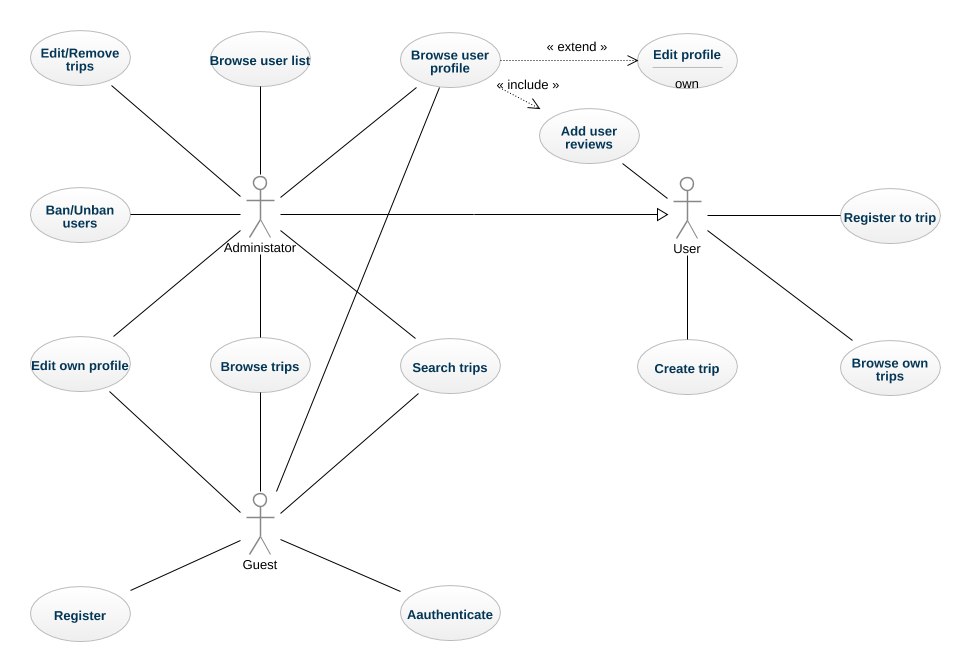
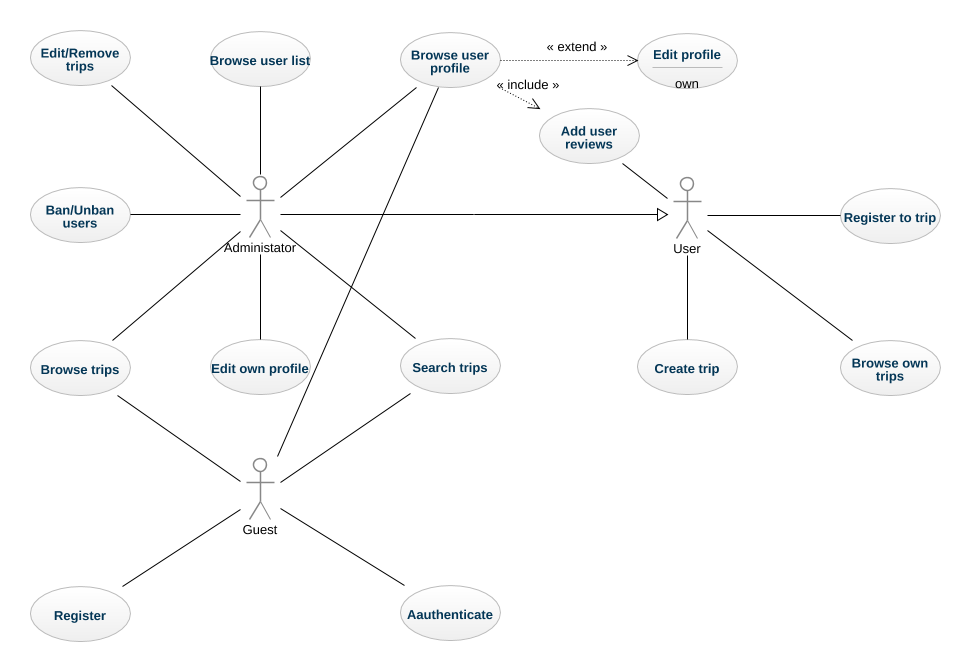
added subject field

diff --git a/hitcher/README.md b/hitcher/README.md
@@ -43,6 +43,15 @@ Final Task. Web Project
 - Регистрация пользователя и/или добавление артефакта предметной области системы.
 - Просмотр информации (например: просмотр всех ставок тотализатора, статистики заказов, счетов и т.д.)
 - Удаление информации (например: отмена заказа, удаление сущности и т.д.)
+- Добавление и модификация информации (например: создать и отредактировать товар, создать и отредактировать заказ и т.д.)
+
+Предметная область:
+===================
+
+Система **Hitcher** (Попутчик). Предназначена для поиска подходящего транспортного средства для поездки в указанное место назначения в определенное время. Система предлагает способ разделить стоимость поездки между другими людьми, которые будут учавствовать в данном путешествии.
+- [ ] **Гость** может просматривать список существующих поездок, просматривать выбранную, просматривать **Пользователей**, которые учавствуют в поездке, зарегистрироваться или авторизироваться в системе. 
+- [ ] Роль **Пользователя** включает в себя возможности роли **Гостя**, а также возможности создания, изменения и удаления собственных поездок, регистрацию на выбранную поездку, изменения данных собственного профиля, просмотр и добавление отзывов о других **Пользователях**.
+- [ ] Роль **Администратора** включает все возможности **Пользователя**, а также позволяет просматривать список всех **Пользователей** сайта, изменять и удалять выбранные поездки, блокировать или разблокировать **Пользователей**.
 
 User case diagram:
 
